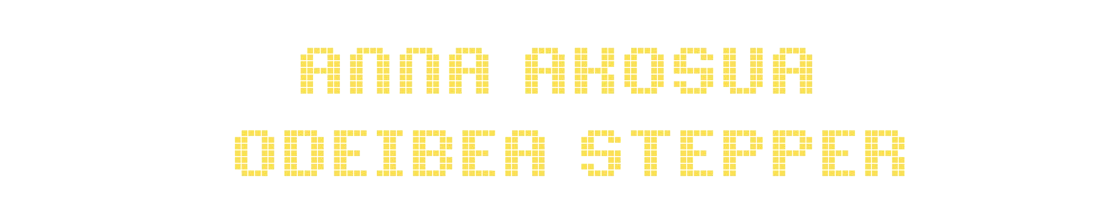
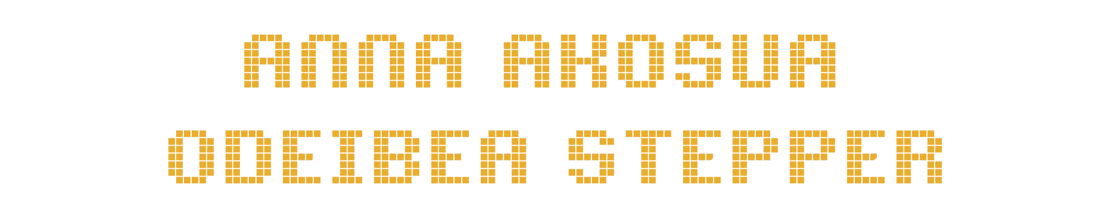
feat: polished profiles

Changed region(s): [[0.1521, 0.565, 0.8515, 0.8341], [0.2129, 0.1345, 0.7603, 0.4305]]

diff --git a/frontend/src/app/profile-hari/profile-hari.html b/frontend/src/app/profile-hari/profile-hari.html
@@ -20,7 +20,7 @@
      <div class="d-flex justify-content-center">
         <!-- TODO: confirm hariTitle1.png ... hariTitle6.png actually exist in /assets, or swap these filenames -->
         <button (click)="selectHeader('hariTitle1.png')">Yellow</button>
-        <button (click)="selectHeader('hariTitle2.png')">Pink</button>
+        <button (click)="selectHeader('hariTitle2.png')">Light Purple</button>
         <button (click)="selectHeader('hariTitle3.png')">Blue</button>
         <button (click)="selectHeader('hariTitle4.png')">Pink</button>
         <button (click)="selectHeader('hariTitle5.png')">Purple</button>
@@ -30,7 +30,7 @@
     <div class="row g-3 mt-2 px-3 align-items-center">
         <div class="col-md-12 d-flex justify-content-center">
             <!-- TODO: replace with Hari's actual title/role text -->
-            <h1 style="font-size: 2rem; font-weight: bold; color: #F6C45C;">Concept Art & Visuelle Effekte</h1>
+            <h1 style="font-size: 2rem; font-weight: bold; color: #ebae2c;">Concept Art & Visuelle Effekte</h1>
         </div>
     </div>
       @if(isAdmin){

diff --git a/frontend/src/app/profile-brenda/profile-brenda.html b/frontend/src/app/profile-brenda/profile-brenda.html
@@ -20,7 +20,7 @@
      <div class="d-flex justify-content-center">
         
         <button (click)="selectHeader('brendaTitle1.png')">Yellow</button>
-        <button (click)="selectHeader('brendaTitle2.png')">Pink</button>
+        <button (click)="selectHeader('brendaTitle2.png')">Light Purple</button>
         <button (click)="selectHeader('brendaTitle3.png')">Blue</button>
         <button (click)="selectHeader('brendaTitle4.png')">Pink</button>
         <button (click)="selectHeader('brendaTitle5.png')">Purple</button>
@@ -30,7 +30,7 @@
     <div class="row g-3 mt-2 px-3 align-items-center">
         <div class="col-md-12 d-flex justify-content-center">
            
-            <h1 style="font-size: 2rem; font-weight: bold; color: #F6C45C;">Game Designerin & Produkt-Managerin</h1>
+            <h1 style="font-size: 2rem; font-weight: bold; color: #ebae2c;">Game Designerin & Produkt-Managerin</h1>
         </div>
     </div>
       @if(isAdmin){

diff --git a/frontend/src/app/profile-nina/profile-nina.html b/frontend/src/app/profile-nina/profile-nina.html
@@ -20,7 +20,7 @@
      <div class="d-flex justify-content-center">
         
         <button (click)="selectHeader('ninaTitle1.png')">Yellow</button>
-        <button (click)="selectHeader('ninaTitle2.png')">Pink</button>
+        <button (click)="selectHeader('ninaTitle2.png')">Light Purple</button>
         <button (click)="selectHeader('ninaTitle3.png')">Blue</button>
         <button (click)="selectHeader('ninaTitle4.png')">Pink</button>
         <button (click)="selectHeader('ninaTitle5.png')">Purple</button>
@@ -30,7 +30,7 @@
     <div class="row g-3 mt-2 px-3 align-items-center">
         <div class="col-md-12 d-flex justify-content-center">
            
-            <h1 style="font-size: 2rem; font-weight: bold; color: #F6C45C;">3D-Künstlerin & Weltenbauerin</h1>
+            <h1 style="font-size: 2rem; font-weight: bold; color: #ebae2c;">3D-Künstlerin & Weltenbauerin</h1>
         </div>
     </div>
       @if(isAdmin){

diff --git a/frontend/src/app/profile-anna/profile-anna.html b/frontend/src/app/profile-anna/profile-anna.html
@@ -27,7 +27,7 @@
     }
     <div class="row g-3 mt-2 px-3 align-items-center">
         <div class="col-md-12 d-flex justify-content-center">
-            <h1 style="font-size: 2rem; font-weight: bold; color: #F6C45C;">Haupt-Entwicklerin & System-Architektin</h1>
+            <h1 style="font-size: 2rem; font-weight: bold; color: #ebae2c;">Haupt-Entwicklerin & System-Architektin</h1>
         </div>
     </div>
       @if(isAdmin){

diff --git a/frontend/src/app/profile-anna/profile-anna.css b/frontend/src/app/profile-anna/profile-anna.css
@@ -47,7 +47,7 @@
     min-height: 400px; 
 }
 .bio-yellow { 
-    background-color: #F6C45C !important; 
+    background-color: #ebae2c !important; 
     color: #2c0073; 
     border-radius: 10px;
     text-align: left;

diff --git a/frontend/src/app/profile-brenda/profile-brenda.css b/frontend/src/app/profile-brenda/profile-brenda.css
@@ -47,7 +47,7 @@
     min-height: 400px; 
 }
 .bio-yellow { 
-    background-color: #F6C45C !important; 
+    background-color: #ebae2c !important; 
     color: #2c0073; 
     border-radius: 10px;
     text-align: left;

diff --git a/frontend/src/app/profile-hari/profile-hari.css b/frontend/src/app/profile-hari/profile-hari.css
@@ -47,7 +47,7 @@
     min-height: 400px; 
 }
 .bio-yellow { 
-    background-color: #F6C45C !important; 
+    background-color: #ebae2c !important; 
     color: #2c0073; 
     border-radius: 10px;
     text-align: left;

diff --git a/frontend/src/app/profile-nina/profile-nina.css b/frontend/src/app/profile-nina/profile-nina.css
@@ -47,7 +47,7 @@
     min-height: 400px; 
 }
 .bio-yellow { 
-    background-color: #F6C45C !important; 
+    background-color: #ebae2c !important; 
     color: #2c0073; 
     border-radius: 10px;
     padding: 1rem;
